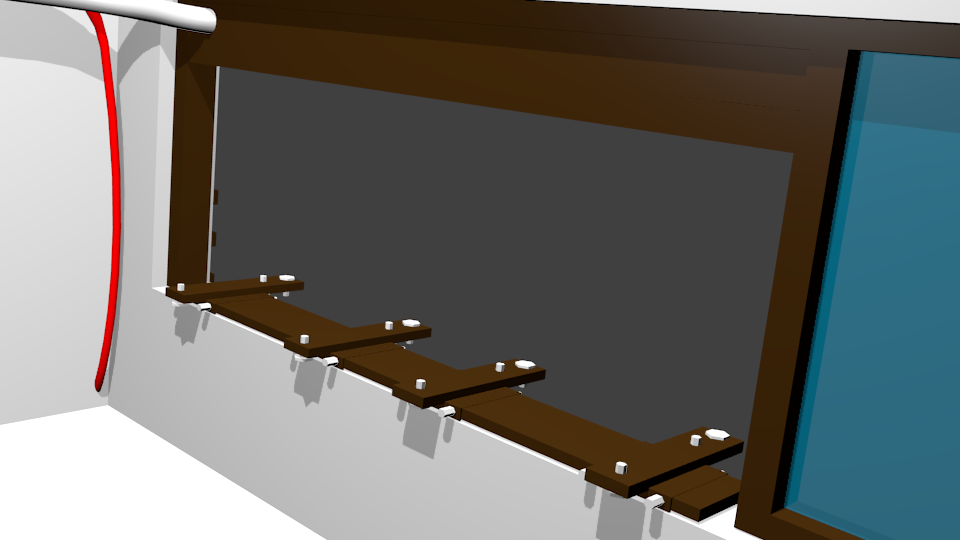
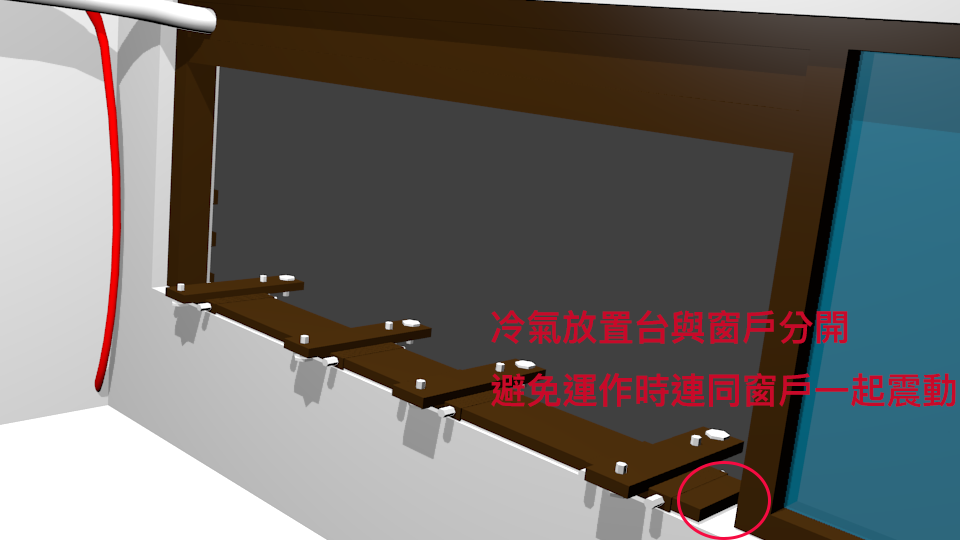
321

diff --git a/index.html b/index.html
@@ -96,6 +96,21 @@
 							href : 'video/index.html',
 							type : 'iframe',
 							title : '二工窗安裝'
+						},{
+								href : 'img/A1_balcony.png',
+								title : 'A1陽台安裝二工窗(內)'
+						},{
+								href : 'img/A1_balcony_1.png',
+								title : '二工窗可上掀方便冷氣安裝'
+						},{
+								href : 'img/A1_balcony_2.png',
+								title : '冷氣安裝台'
+						},{
+								href : 'img/A1_balcony_3.png',
+								title : '外窗冷氣固定'
+						},{
+								href : 'img/A1_balcony_4.png',
+								title : 'A1外掛'
 						}]);
 			        };
 			    scene.add(meshWindow);
